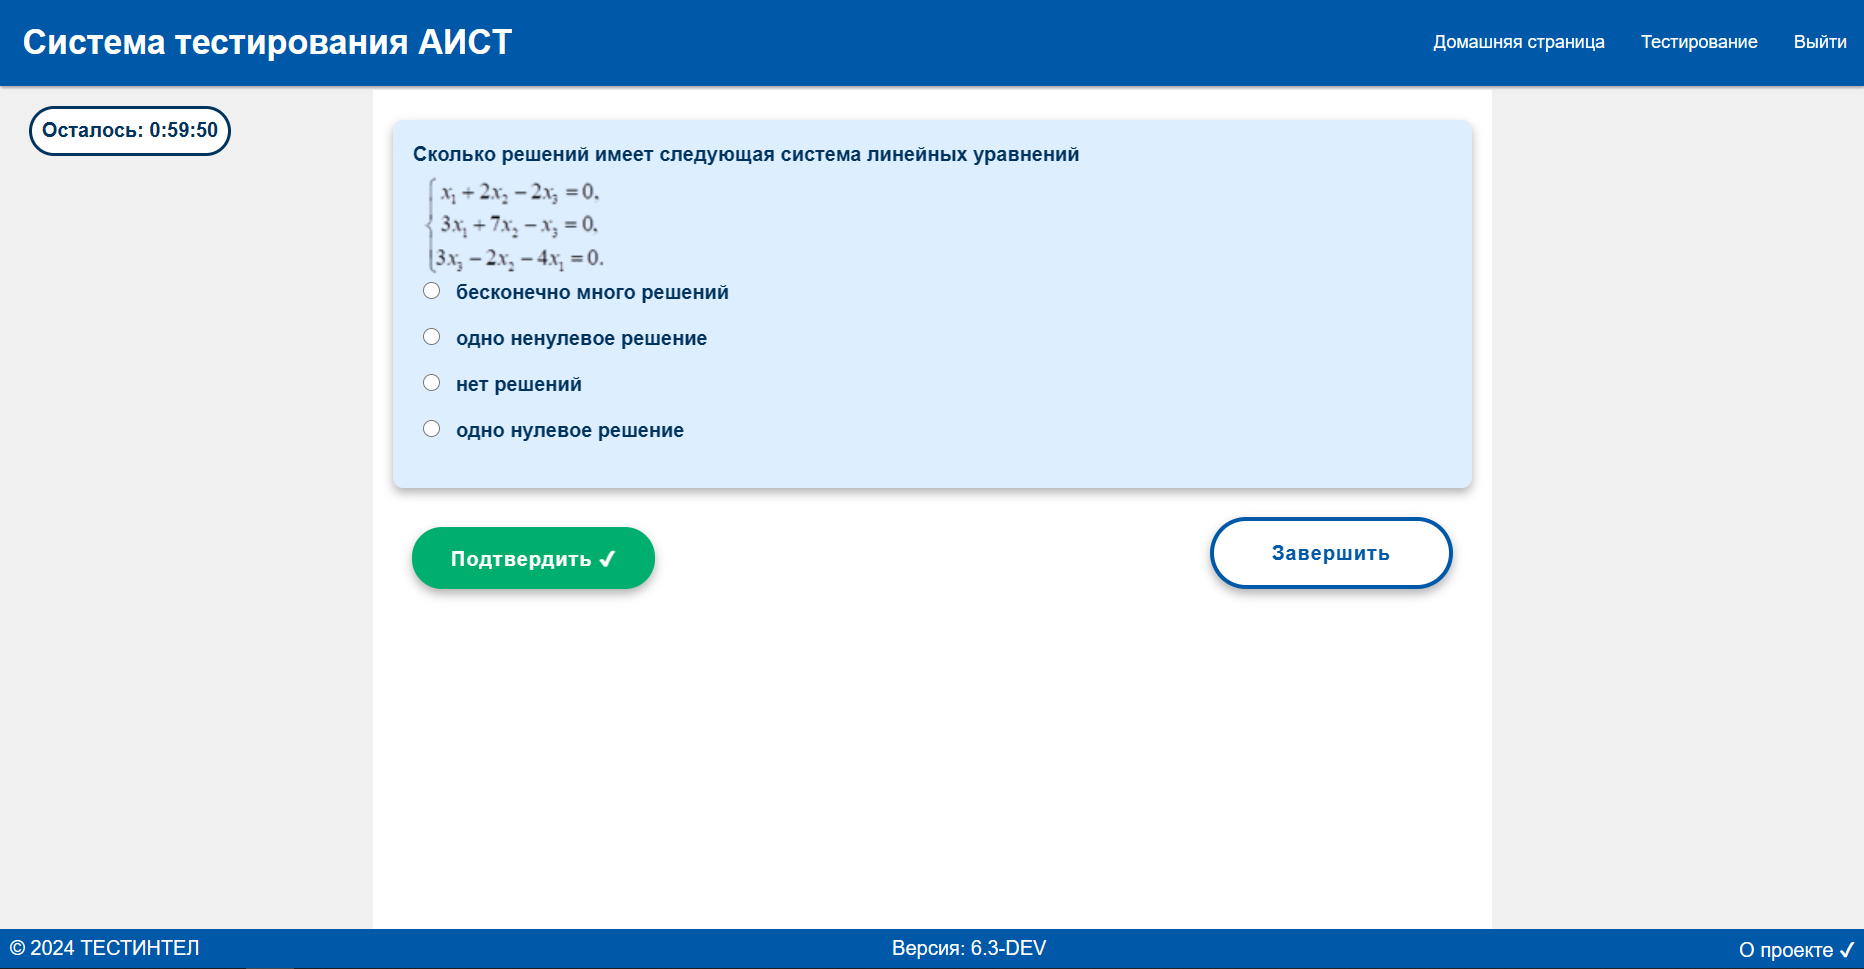
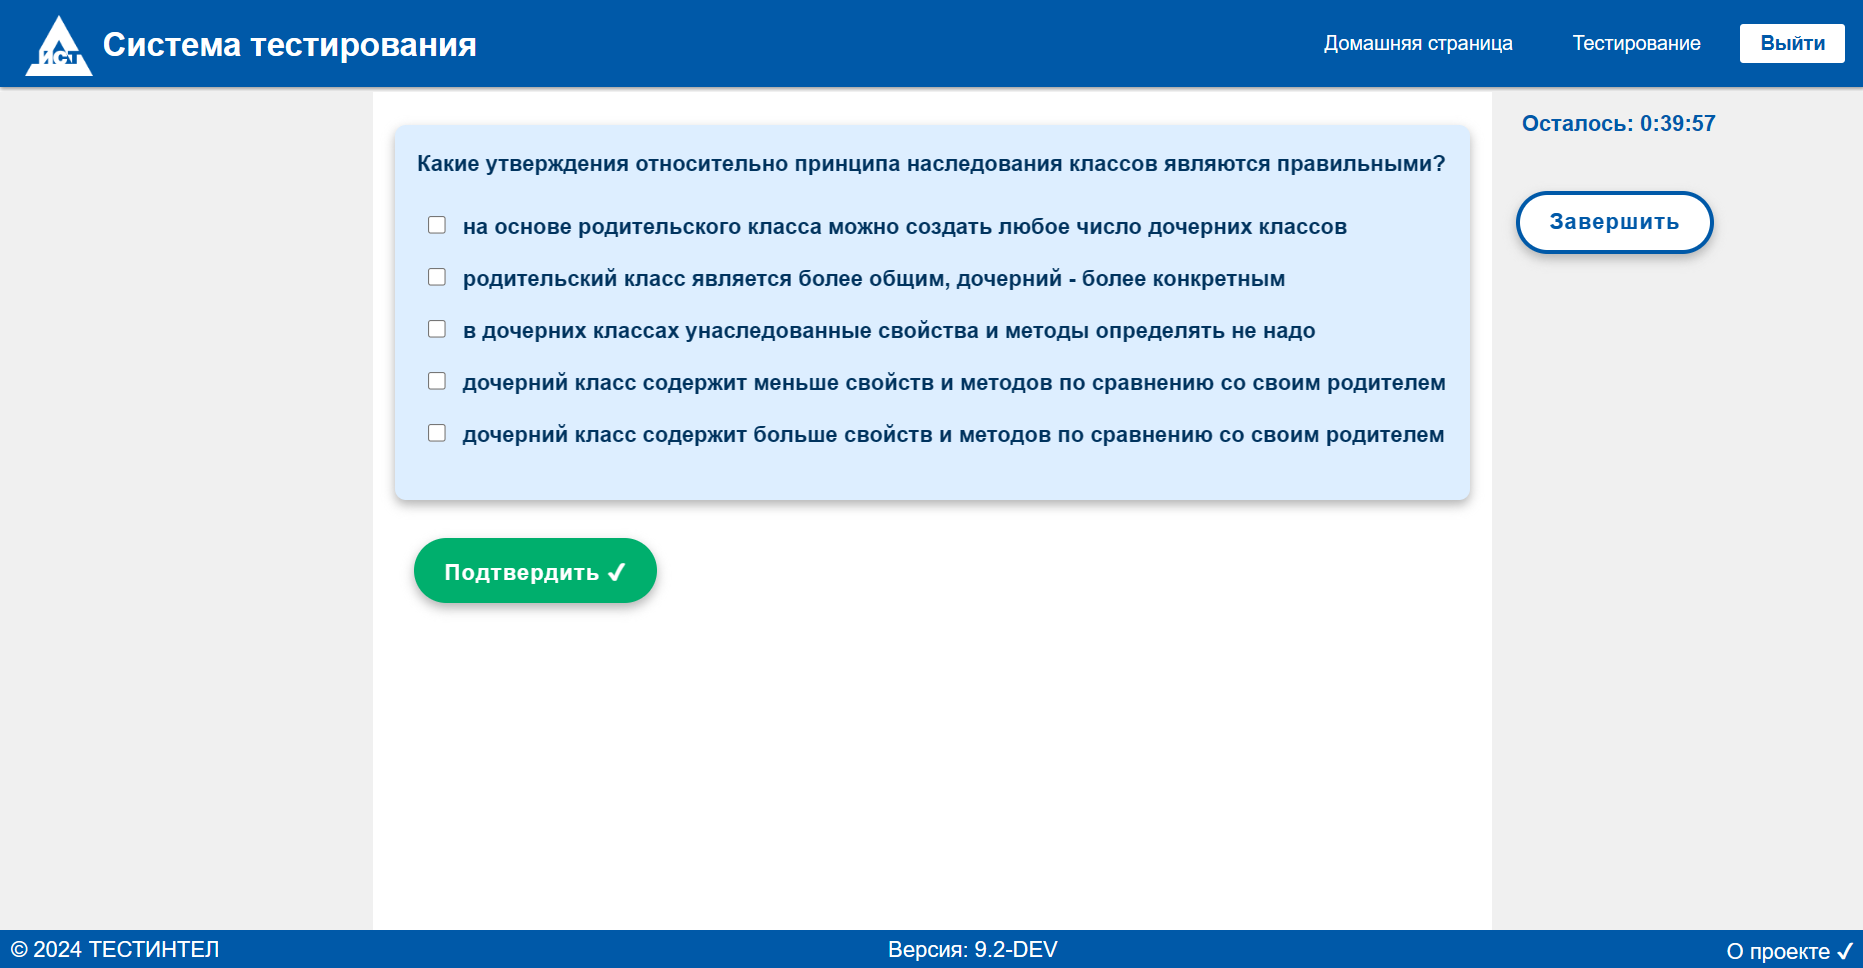
фикс таймера и обновление гайда

diff --git a/src/pages/ActiveTest.js b/src/pages/ActiveTest.js
@@ -521,9 +521,12 @@ const ActiveTest = () => {
                     </Dialog>
 
                 
-
-                        <div className="test-menu">
+                        <div className="timer-position">
                             {started && timer && <Timer dl={timer} />}
+                        </div>
+                        
+                        <div className="test-menu">
+                            
                             {menubtns && started && !is_adaptive_test &&
                                 menubtns.map(btn => (
                                     <button key={btn.num} className={btn.style} onClick={() => { handleSendOne(btn.id) }}>
@@ -535,9 +538,7 @@ const ActiveTest = () => {
                             {started && <input onClick={handleClickOpenWarn} className="btn-fin2" type="submit" value="Завершить" />}                           
                         </div>
 
-                        <div className="timer-position">
-                            
-                        </div>
+                        
                         <div className="quest-back">
                         {question.itemType === "MULTIPLE_CHOICE" && <QMultiRadio qname={question.question} cnt={question.answers.length} a_arr={question.answers} Qpic={question.pictures[0] ?? ""} />}
                         {question.itemType === "MULTIPLE_ANSWER" && <QMultiCheckbox qname={question.question} cnt={question.answers.length} a_arr={question.answers} Qpic={question.pictures[0] ?? ""} />}

diff --git a/src/pages/Guid.js b/src/pages/Guid.js
@@ -110,7 +110,7 @@ export default function Guid() {
                         <p><button className="btn-menu btn-menu-answered btn-menu-focus"><span>4</span></button> - отвеченное открытое задание.</p>
                         <p>При наведении курсора на кнопку навигации заливка кнопки осветляется.</p><br />
                     
-                        <p>Таймер в левом верхнем углу экрана показывает количество оставшегося на тестирование времени в формате часы : минуты : секунды.</p><br />
+                        <p>Таймер в правом верхнем углу экрана показывает количество оставшегося на тестирование времени в формате часы : минуты : секунды.</p><br />
 
 
                     </span>

diff --git a/src/index.css b/src/index.css
@@ -491,12 +491,22 @@ main {
 /* questions menu */
 .test-menu {
     width: 18%;
+    top: 18%;
+    right: 1%;
+    position:absolute;
+    display: flex;
+    flex-wrap: wrap;
+}
+
+.timer-position{
+    width: 18%;
     top: 10%;
     right: 1%;
     position:absolute;
     display: flex;
     flex-wrap: wrap;
 }
+
 
 .btn-menu {
     width: 35px;
@@ -752,7 +762,7 @@ input[type='date'] {
     border: 4px solid #0059A8;
     border-radius: 40px;*/
     flex-direction: column;
-    margin: 0px 500px 0px 10px;
+    margin: 0px 0px 0px 10px;
 }
 
 .timer li {
